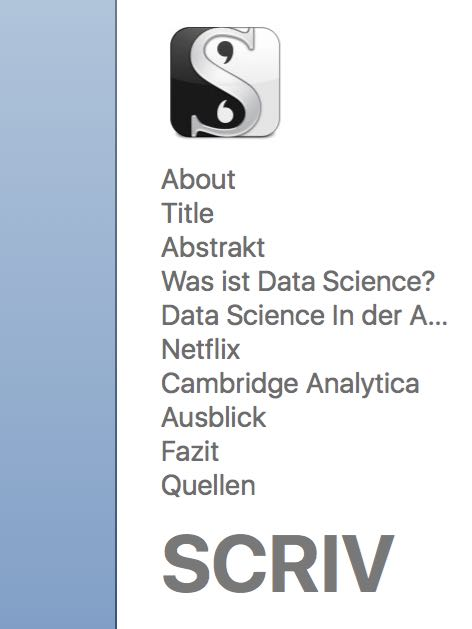
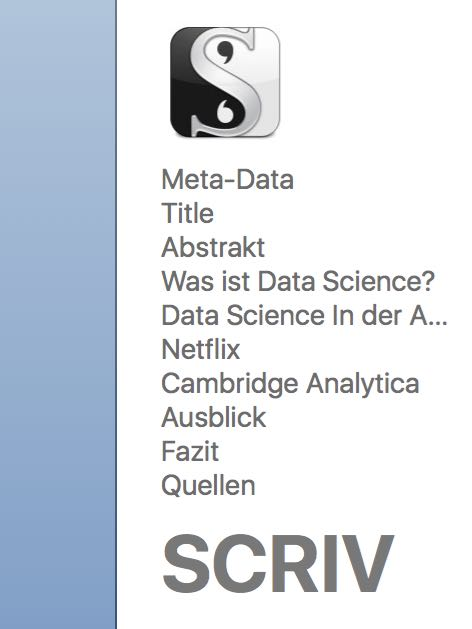
local changes 2017.01.22

Changed region(s): [[0.3263, 0.2417, 0.6229, 0.3021]]

diff --git a/data_science/Karina-Ennenga_Fabian-Moron-Zirfas/bin/Data-Science.scriv/QuickLook/Preview.html b/data_science/Karina-Ennenga_Fabian-Moron-Zirfas/bin/Data-Science.scriv/QuickLook/Preview.html
@@ -28,6 +28,9 @@
 
 <ul>
 <li>
+<p class="binderItem"><strong>Meta-Data</strong></p>
+</li>
+<li>
 <p class="binderItem"><strong>Title</strong><br/>---<br/>
 title: "Daten Wissenschaft"<br/>
 subtitle: "Datenbanken in Big Data. Welche Technologien kommen zum Einsatz?"<br/>

diff --git a/data_science/Karina-Ennenga_Fabian-Moron-Zirfas/00_Titel.md b/data_science/Karina-Ennenga_Fabian-Moron-Zirfas/00_Titel.md
@@ -8,12 +8,13 @@ author:
    - Karina Ennenga 
    - Fabian Morón Zirfas
 ---
-
 Karina Ennenga, Fabian Morón Zirfas
 Nikolai Alex
 Datenbanktechnologien (FHBSWF MIM 12 W16)
 18. Januar 2017
 Data Science 
+
+----
 
 ## Inhalt
 
@@ -25,3 +26,5 @@ Data Science
 4. Ausblick
 5. Fazit
 6. Quellen
+
+Ende
